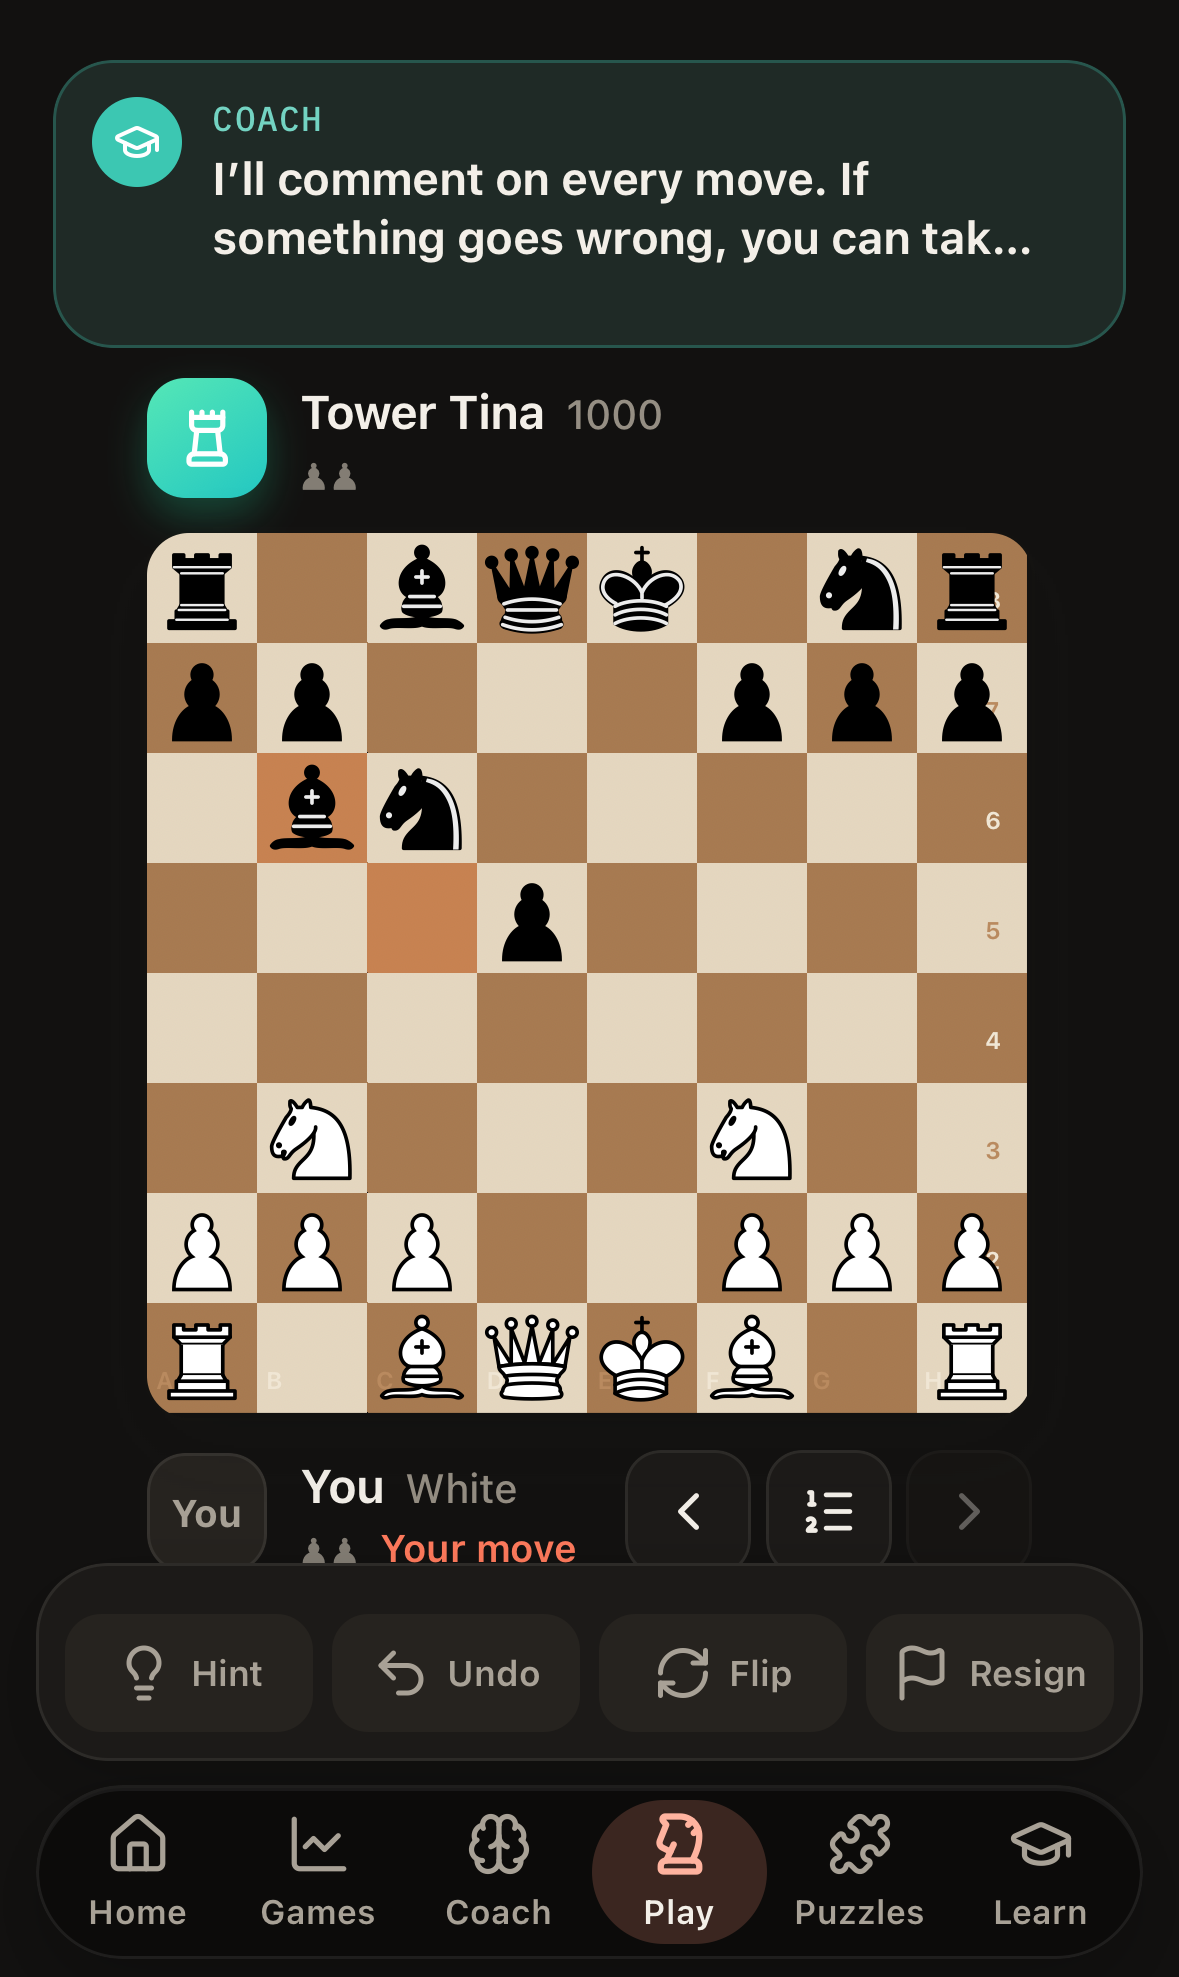
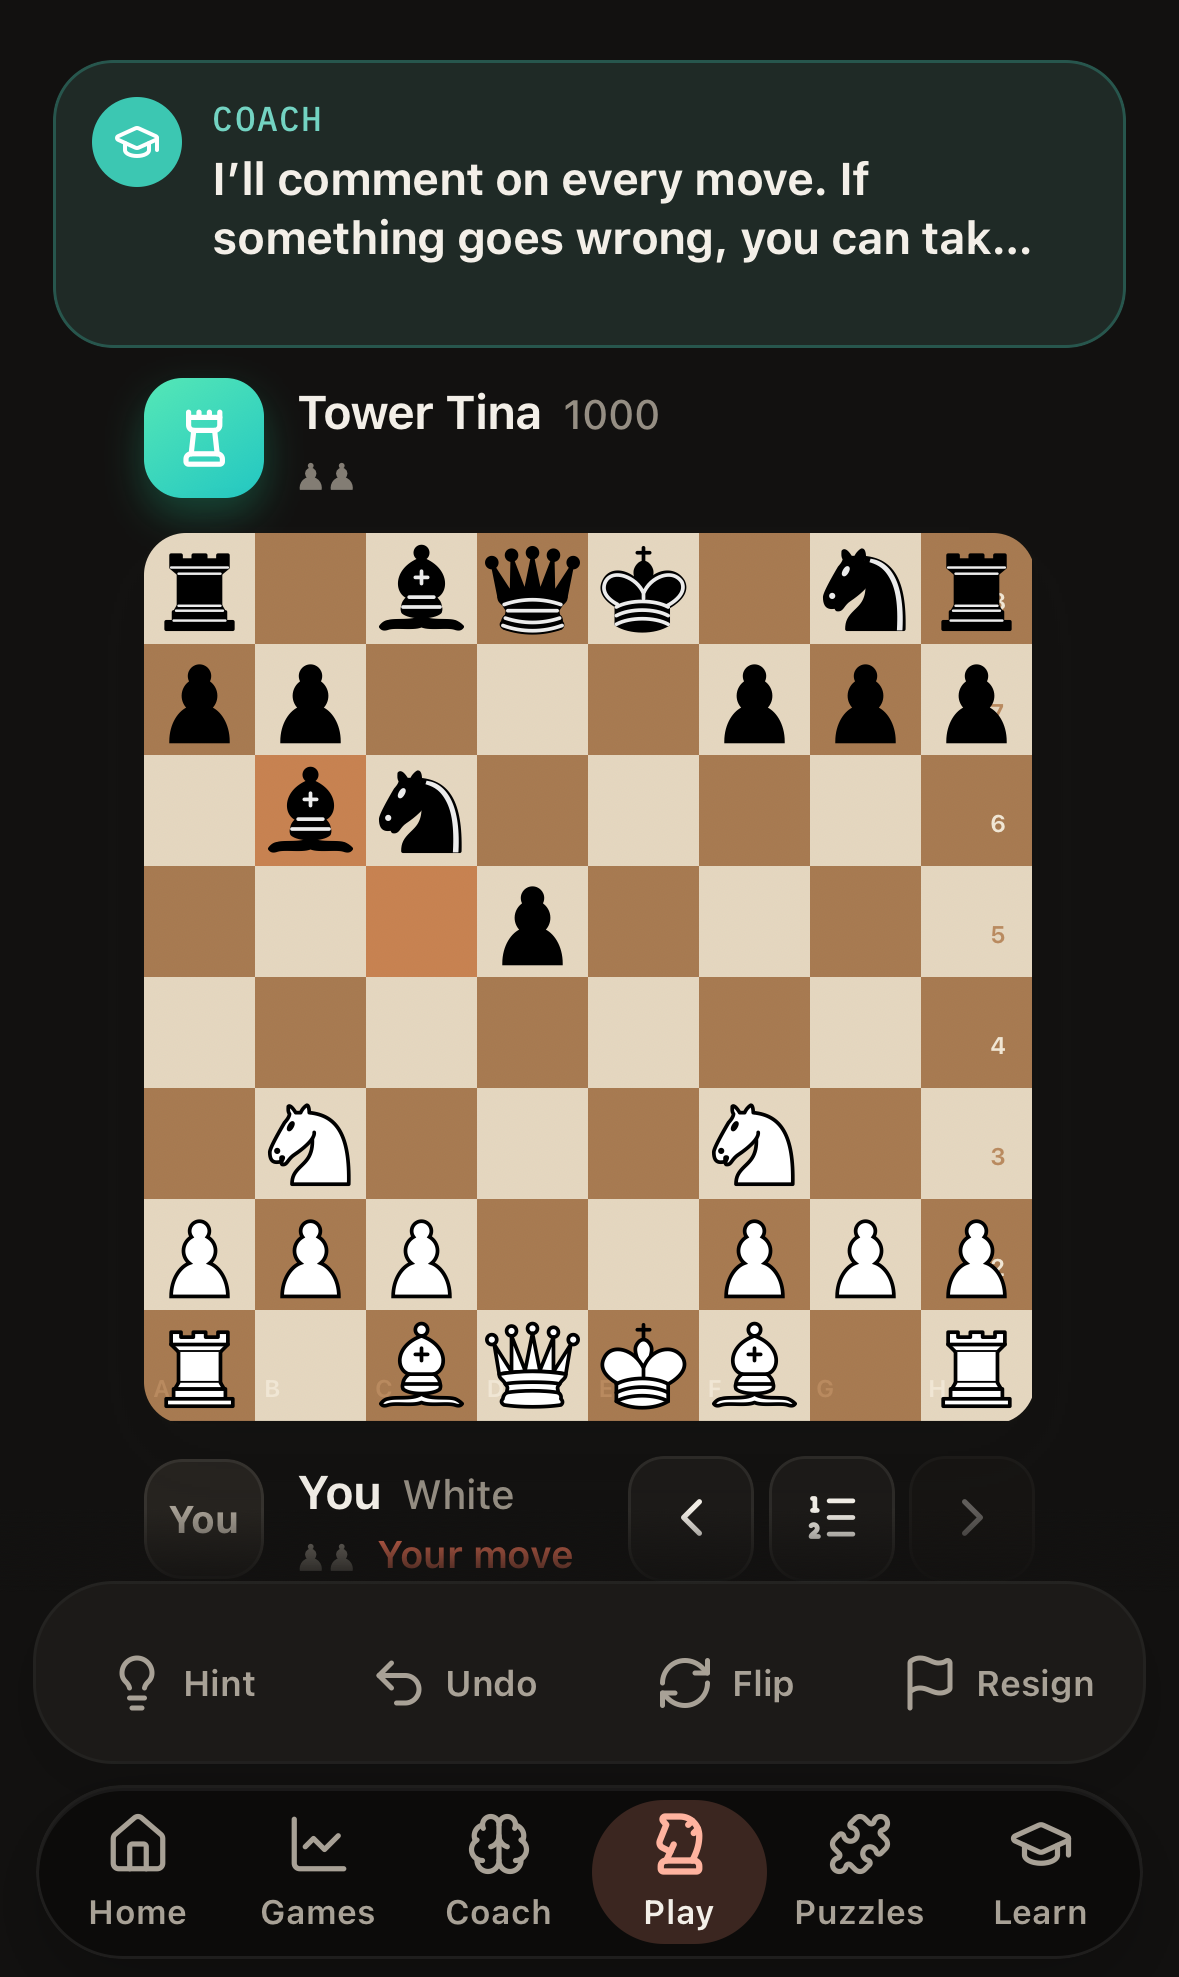
v0.2.1: neue README-Screenshots (Handy und Desktop, hell und dunkel)
Handy-Screenshots auf dem aktuellen Stand (Tab-Kapsel, Kommentar über
dem Brett, ruhige Aktionsleiste), dazu Desktop-Screenshots von Home und
Partieanalyse in hell und dunkel.

diff --git a/README.md b/README.md
@@ -2,12 +2,19 @@
 
 A chess trainer for beginners as a Progressive Web App for iPhone, iPad and Mac – completely free, offline-capable, no App Store, no account, no tracking. English and German.
 
-**Live:** https://chess.maximilianauer.at · **Version:** 0.2.0
+**Live:** https://chess.maximilianauer.at · **Version:** 0.2.1
 
 | Home                                                                                                                                                    | Coach                                                                                                                    | Play                                                                                                   | Game review                                                                                                       |
 | ------------------------------------------------------------------------------------------------------------------------------------------------------- | ------------------------------------------------------------------------------------------------------------------------ | ------------------------------------------------------------------------------------------------------ | ----------------------------------------------------------------------------------------------------------------- |
 | <img src="docs/screenshots/home-light.png" width="200" alt="Home: daily plan as the largest tile, then puzzle rating, strength, daily goal and streak"> | <img src="docs/screenshots/coach-light.png" width="200" alt="Coach tab: current rating, win rate and accuracy as tiles"> | <img src="docs/screenshots/play-light.png" width="200" alt="Playing a bot with the coach switched on"> | <img src="docs/screenshots/analysis-light.png" width="200" alt="Game review: each move classified and explained"> |
 | <img src="docs/screenshots/home-dark.png" width="200" alt="Home in dark mode">                                                                          | <img src="docs/screenshots/coach-dark.png" width="200" alt="Coach tab in dark mode">                                     | <img src="docs/screenshots/play-dark.png" width="200" alt="Play in dark mode">                         | <img src="docs/screenshots/analysis-dark.png" width="200" alt="Game review in dark mode">                         |
+
+**Desktop** (Mac, iPad landscape)
+
+| Light                                                                                                                                                                                     | Dark                                                                                                         |
+| ----------------------------------------------------------------------------------------------------------------------------------------------------------------------------------------- | ------------------------------------------------------------------------------------------------------------ |
+| <img src="docs/screenshots/desktop-home-light.png" width="420" alt="Home on desktop in light mode: sidebar, daily plan, daily goal, streak, puzzle rating, strength, form and stars">     | <img src="docs/screenshots/desktop-home-dark.png" width="420" alt="Home on desktop in dark mode">            |
+| <img src="docs/screenshots/desktop-analysis-light.png" width="420" alt="Game review on desktop in light mode: a mistake on the board, the engine's top moves and accuracy per move type"> | <img src="docs/screenshots/desktop-analysis-dark.png" width="420" alt="Game review on desktop in dark mode"> |
 
 Screenshots use generated sample data (`scripts/screenshots/`), not real games.
 
